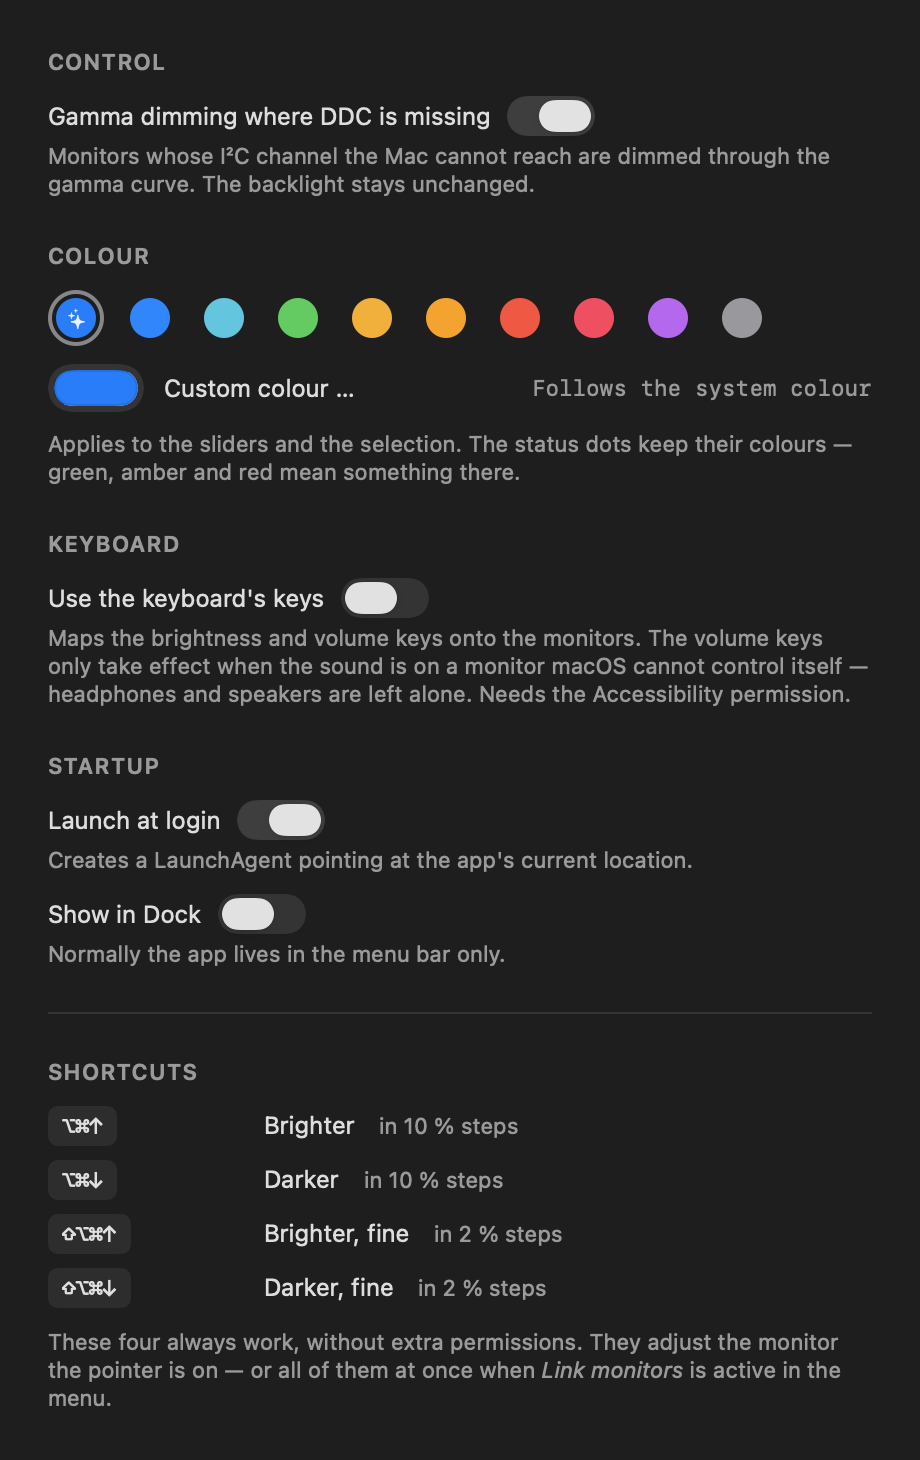
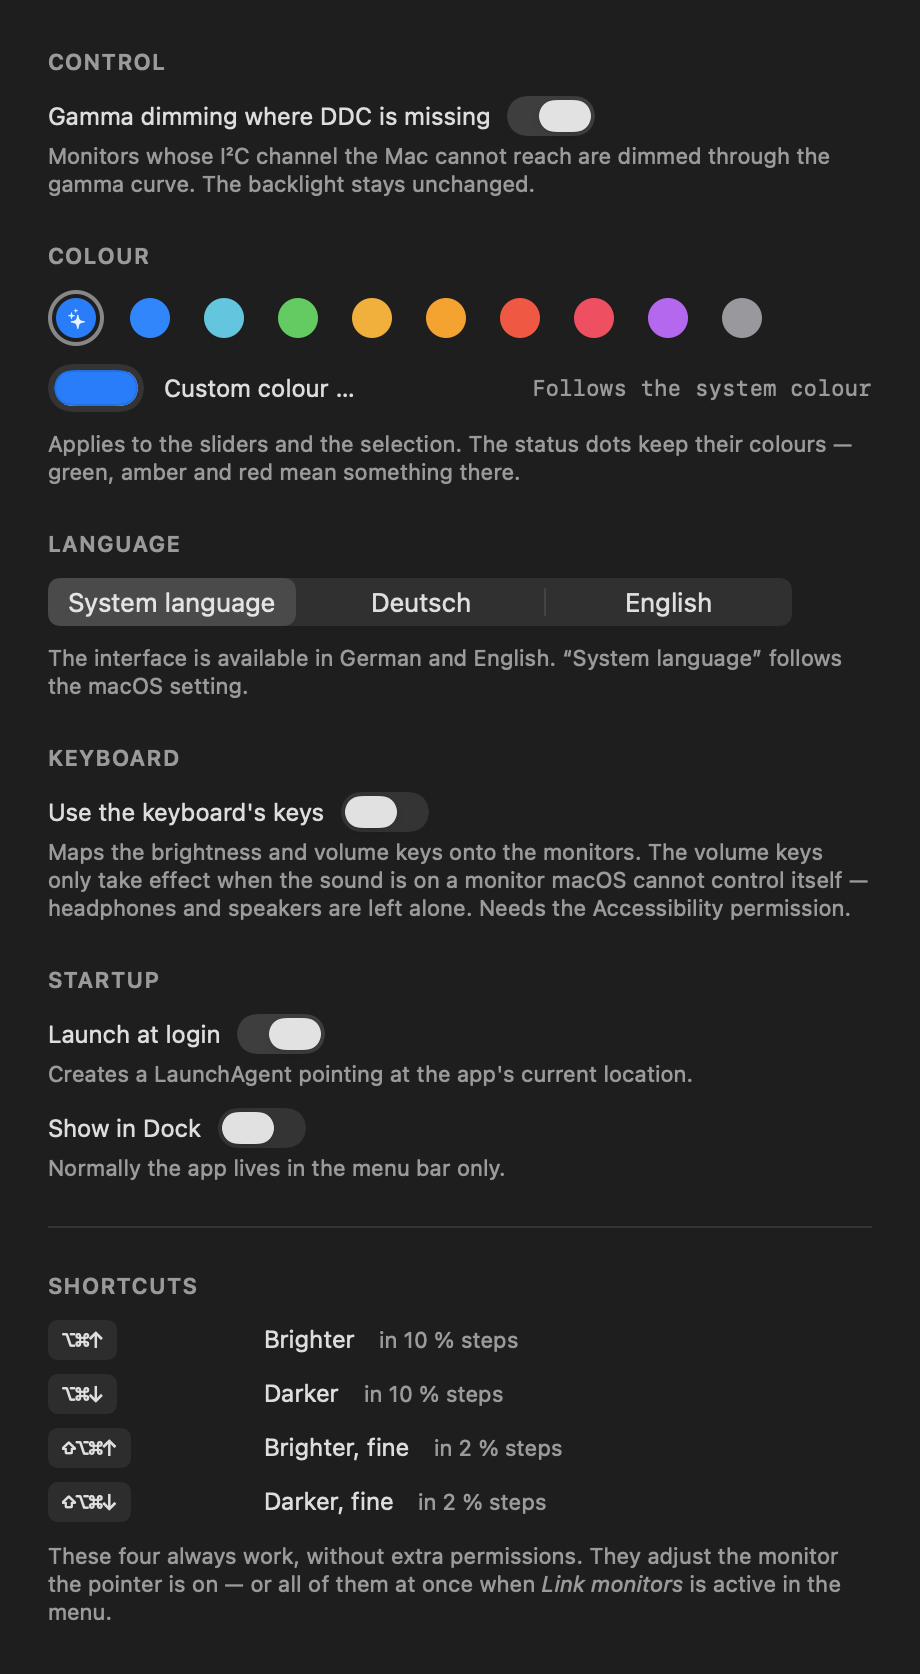
Sprachwahl ins Einstellungsfenster
macOS kann die Sprache pro Programm bereits setzen — unter Allgemein → Sprache
& Region → Programme. Dort sucht sie niemand. Die App schreibt jetzt dieselbe
Einstellung von einer Stelle aus, die man findet, mit Knopf zum Neustart, weil
das Bundle seine Sprache nur beim Start auflöst.

Die Sprachnamen bleiben in ihrer eigenen Sprache: wer versehentlich auf English
stellt, muss zurückfinden können.

Beim Rendern der Vorschau fiel ein Fehler auf: Die Auswahl stand auf "Deutsch"
statt auf "Systemsprache". UserDefaults.standard liest bei AppleLanguages bis in
die globale Domäne durch, wo immer die Systemliste steht — gefragt wird jetzt
nur die eigene Domäne der App.

Changed region(s): [[0.0304, 0.0308, 0.9435, 0.9863]]

diff --git a/Sources/Localization.swift b/Sources/Localization.swift
@@ -1,4 +1,5 @@
 import Foundation
+import AppKit
 
 // MARK: - Localisation
 //
@@ -18,4 +19,57 @@ func L(_ key: String) -> String {
 /// Same, with format arguments applied afterwards.
 func L(_ key: String, _ arguments: CVarArg...) -> String {
     String(format: NSLocalizedString(key, comment: ""), arguments: arguments)
+}
+
+// MARK: - Choosing the language in the app
+
+/// macOS can already set a language per application, but that switch lives in System Settings
+/// under Language & Region, where nobody goes looking for it. This writes the very same
+/// preference — `AppleLanguages` in the app's own domain — from a place people will find.
+enum AppLanguage: String, CaseIterable {
+
+    case system
+    case german = "de"
+    case english = "en"
+
+    private static let key = "AppleLanguages"
+
+    /// The language names stay in their own language: someone who set English by accident has
+    /// to be able to find their way back.
+    var label: String {
+        switch self {
+        case .system: return L("Systemsprache")
+        case .german: return "Deutsch"
+        case .english: return "English"
+        }
+    }
+
+    /// Only the app's own domain counts. `UserDefaults.standard` reads through to the global
+    /// domain, where `AppleLanguages` always holds the system list — asking it would report a
+    /// choice the user never made.
+    static var current: AppLanguage {
+        guard let identifier = Bundle.main.bundleIdentifier,
+              let domain = UserDefaults.standard.persistentDomain(forName: identifier),
+              let stored = (domain[key] as? [String])?.first
+        else { return .system }
+        return AppLanguage(rawValue: String(stored.prefix(2))) ?? .system
+    }
+
+    static func select(_ language: AppLanguage) {
+        if language == .system {
+            UserDefaults.standard.removeObject(forKey: key)
+        } else {
+            UserDefaults.standard.set([language.rawValue], forKey: key)
+        }
+    }
+
+    /// The bundle resolves its language once at launch, so the change needs a fresh process.
+    @MainActor
+    static func restartApp() {
+        let configuration = NSWorkspace.OpenConfiguration()
+        configuration.createsNewApplicationInstance = true
+        NSWorkspace.shared.openApplication(at: Bundle.main.bundleURL, configuration: configuration) { _, _ in
+            DispatchQueue.main.async { NSApp.terminate(nil) }
+        }
+    }
 }

diff --git a/Sources/SettingsWindow.swift b/Sources/SettingsWindow.swift
@@ -41,6 +41,10 @@ struct SettingsView: View {
     @State private var launchAtLogin = LoginItem.isEnabled
     @State private var showInDock = DockVisibility.isEnabled
     @ObservedObject private var appearance = Appearance.shared
+    @State private var language = AppLanguage.current
+    /// What the running process actually resolved to — the restart hint depends on this, not
+    /// on the stored choice.
+    private let launchedWith = AppLanguage.current
 
     var body: some View {
         VStack(alignment: .leading, spacing: 22) {
@@ -57,6 +61,10 @@ struct SettingsView: View {
 
             section("Farbe") {
                 accentPicker
+            }
+
+            section("Sprache") {
+                languagePicker
             }
 
             section("Tastatur") {
@@ -119,6 +127,36 @@ struct SettingsView: View {
         }
         .padding(24)
         .frame(width: 460)
+    }
+
+    private var languagePicker: some View {
+        VStack(alignment: .leading, spacing: 9) {
+            Picker("", selection: $language) {
+                ForEach(AppLanguage.allCases, id: \.self) { option in
+                    Text(option.label).tag(option)
+                }
+            }
+            .pickerStyle(.segmented)
+            .labelsHidden()
+            .onChange(of: language) { _, newValue in AppLanguage.select(newValue) }
+
+            if language != launchedWith {
+                HStack(spacing: 10) {
+                    Text("Wirkt nach einem Neustart der App.")
+                        .font(.system(size: 11))
+                        .foregroundStyle(Theme.warning)
+                    Button("Jetzt neu starten") { AppLanguage.restartApp() }
+                        .buttonStyle(.link)
+                        .font(.system(size: 11))
+                    Spacer()
+                }
+            } else {
+                Text("Die Oberfläche gibt es auf Deutsch und Englisch. „Systemsprache“ folgt der Einstellung von macOS.")
+                    .font(.system(size: 11))
+                    .foregroundStyle(.secondary)
+                    .fixedSize(horizontal: false, vertical: true)
+            }
+        }
     }
 
     private var accentPicker: some View {

diff --git a/README.md b/README.md
@@ -10,8 +10,8 @@ macOS gives you no slider for at all.
   <img src="docs/banner-en-light.png" width="960" alt="BrightnessBar: menu with sliders for brightness, contrast and volume">
 </picture>
 
-> **Language:** the interface follows your system language — German by default, English when
-> macOS is set to English. Both string tables ship with the app.
+> **Language:** German and English, switchable under *Settings … → Language*. The default
+> follows your system language.
 
 ## What this is for
 
@@ -32,7 +32,7 @@ BrightnessBar talks to the monitor directly over the I²C channel of its display
 * Link several monitors and adjust them together
 * Gamma-based dimming as a fallback when the DDC channel is unreachable
 * Launch at login, optional Dock icon, About window
-* German and English interface, following the system language
+* German and English interface, switchable in the settings
 * Needs **no** Accessibility or Screen Recording permission for any of the above
 
 ## Installation

diff --git a/README.de.md b/README.de.md
@@ -34,7 +34,7 @@ Lautstärke.
 * Mehrere Monitore koppeln und gemeinsam regeln
 * Softwaredimmung als Fallback, wenn der DDC-Kanal nicht erreichbar ist
 * Anmeldestart, optionales Dock-Symbol, Info-Fenster
-* Deutsche und englische Oberfläche, folgt der Systemsprache
+* Deutsche und englische Oberfläche, umschaltbar in den Einstellungen
 * Braucht **keine** Bedienungshilfen- oder Bildschirmaufnahme-Rechte
 
 ## Installation
